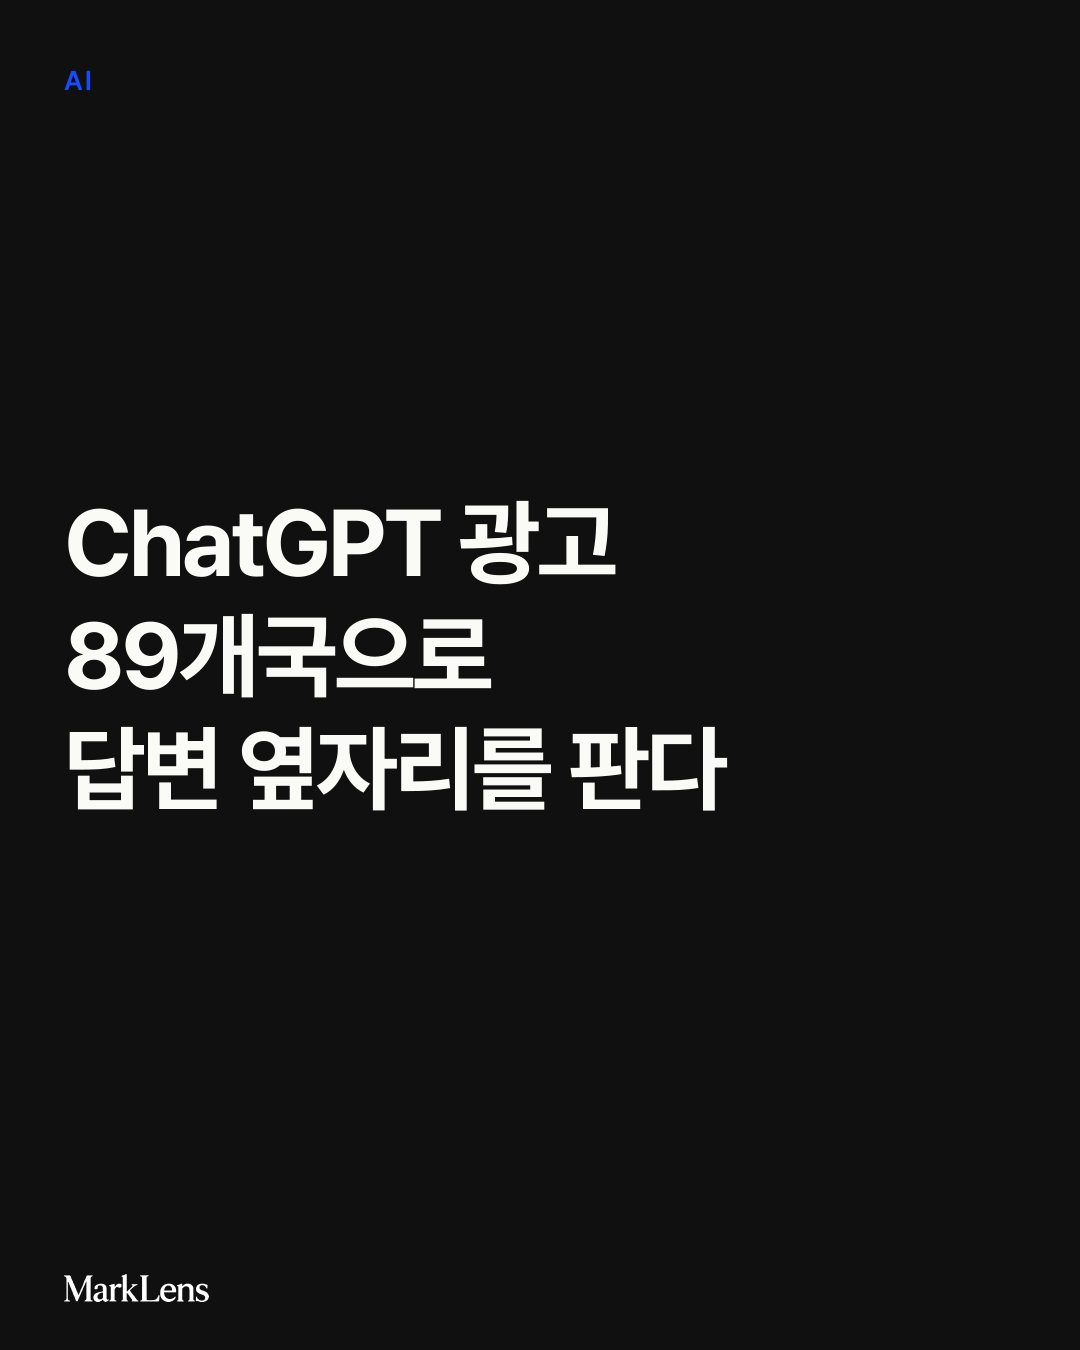
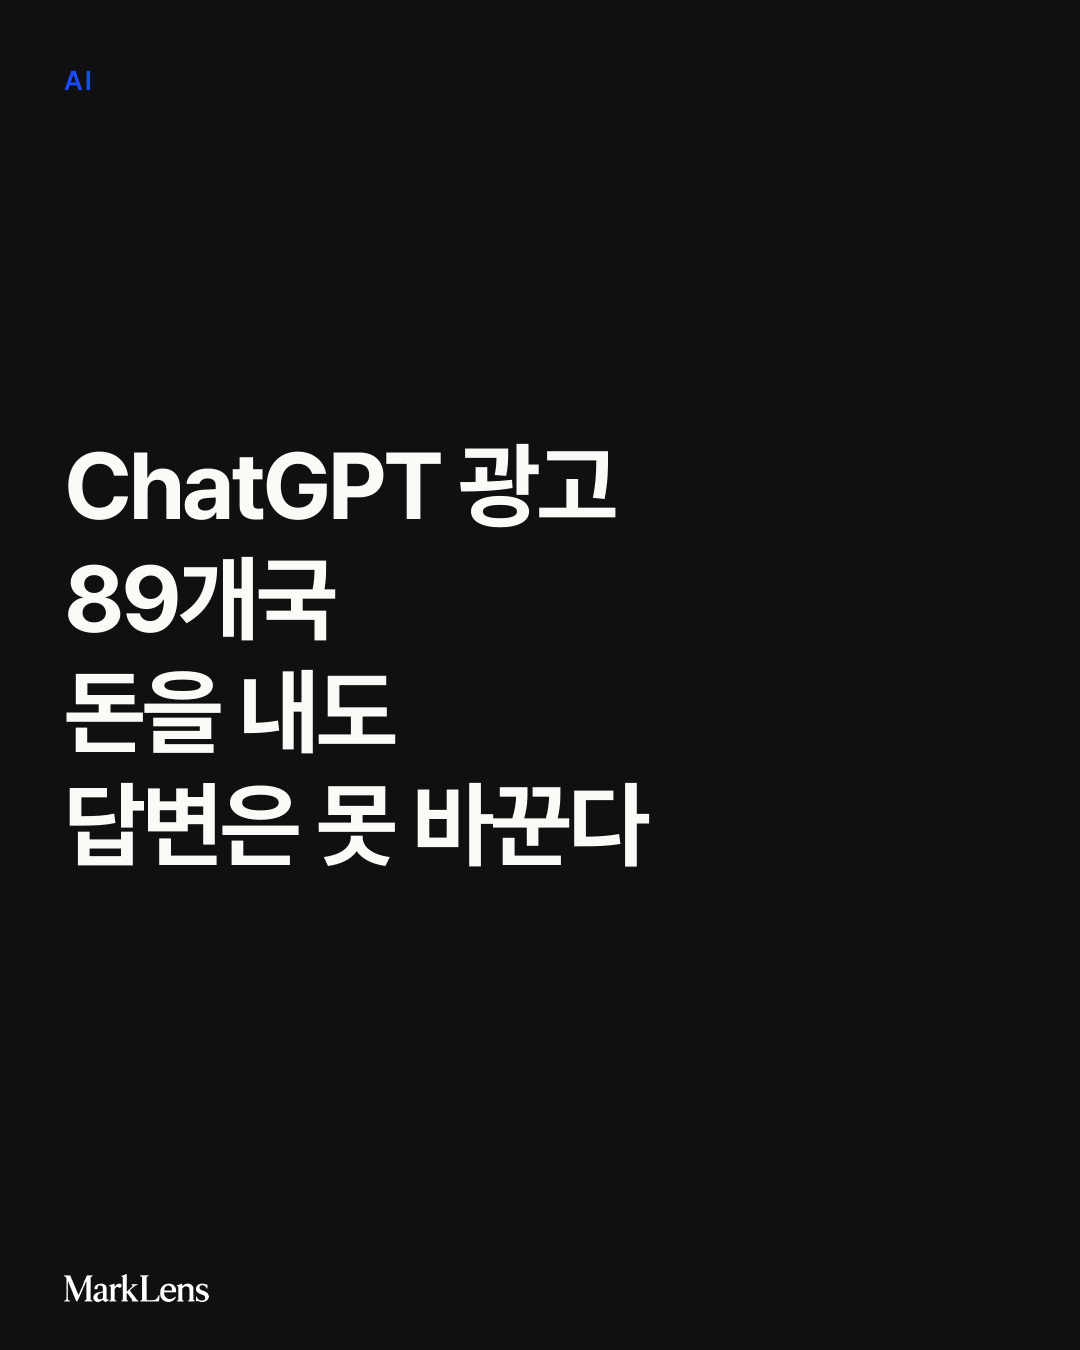
docs(editorial): pre-publication fixes to the first editorial
Title per the owner: "ChatGPT 광고 89개국, 브랜드가 돈을 내도 AI의 답변은
바꿀 수 없다". States OpenAI's 21 Oct expansion (26 more, 89 in total) and
keeps Korea separate (launch announced 11 Aug). Ads are described as
separated from answers, without asserting where they sit. Google AI Mode ads
are a separate service and a test for some users. The learn-before-shifting
budget conclusion is labelled as MarkLens's opinion (article, card 5
"MarkLens의 의견", social copy). Card news re-validated and re-rendered on
Preview.

Changed region(s): [[0.0611, 0.3111, 0.6722, 0.6533]]

diff --git a/docs/editorial/2026-10-26-chatgpt-ads/social.md b/docs/editorial/2026-10-26-chatgpt-ads/social.md
@@ -1,21 +1,21 @@
-# 배포 문안 — ChatGPT 광고 89개국, 답변은 못 사고 옆자리만 산다
+# 배포 문안 — ChatGPT 광고 89개국, 브랜드가 돈을 내도 AI의 답변은 바꿀 수 없다
 
-상태: 초안. 실제 게시·발송은 운영자 승인 후.
-기사 URL(공개 후): https://marklens.site/insights/chatgpt-ads-89-countries-answer-adjacent
+상태: 초안. 실제 게시·발송은 운영자 승인 후(기사 발행이 먼저, SNS·뉴스레터는 별도 승인).
+기사 URL(공개 후): https://marklens.site/insights/chatgpt-ads-89-countries-answers-not-for-sale
 
 ## Instagram (카드뉴스 캡션)
 
-ChatGPT 광고가 89개국으로 넓어졌습니다.
-구글도 AI 모드에서 광고 시험을 시작했고요.
+OpenAI가 10월 21일 ChatGPT 광고를 26개국에 추가해 89개국으로 넓혔습니다.
+(한국은 이와 별개로 8월 11일 출시가 발표됐습니다.)
 
-AI 답변 바로 옆이 새 광고 지면이 됐지만,
-두 회사 모두 광고는 답변 내용을 바꾸지 않는다고 밝혔습니다.
+광고는 AI 답변과 구분돼 표시되고,
+OpenAI는 광고가 답변 내용에 영향을 주지 않는다고 밝혔습니다.
 
-살 수 있는 건 답변 옆자리.
-답변 속 언급은 여전히 돈으로 살 수 없습니다.
+돈으로 살 수 있는 건 광고.
+답변 속에서 언급되는 일은 여전히 돈으로 살 수 없습니다.
 
-경매 방식과 외부 측정이 공개되지 않은 지금은
-예산을 옮기기보다 질문 맥락별 반응을 배울 때라고 봅니다.
+경매 방식과 외부 측정이 공개되지 않은 지금,
+MarkLens는 예산을 옮기기보다 질문 맥락별 반응을 배울 때라고 봅니다.
 
 출처와 전체 분석은 프로필 링크의 MarkLens에서.
 
@@ -23,14 +23,16 @@ AI 답변 바로 옆이 새 광고 지면이 됐지만,
 
 ## Threads
 
-ChatGPT 광고가 89개국으로 넓어졌다(OpenAI, 10/21). 구글도 10/16부터 AI 모드 광고를 시험 중.
+OpenAI가 10/21 ChatGPT 광고를 26개국 추가, 총 89개국으로 넓혔다. 한국은 이와 별개로 8/11에 출시 발표.
 
-정리하면 AI 안의 브랜드 노출은 두 갈래다.
-· 돈으로 사는 답변 옆자리(광고)
-· 돈으로 못 사는 답변 속 언급(신뢰)
+광고는 답변과 구분되고 답변을 바꾸지 않는다는 게 OpenAI 설명이다. 그래서 AI 안의 브랜드 노출은 두 갈래다.
+· 돈으로 사는 광고
+· 돈으로 못 사는 답변 속 언급
 
-경매·빈도·외부 측정이 비공개인 지금은 학습 예산 단계라고 본다. 여러분 팀은 시험해 볼 생각이 있나요?
+구글 AI 모드 광고는 별개 서비스이고 아직 일부 이용자 대상 시험이다.
+
+MarkLens 의견: 경매·빈도·외부 측정이 비공개인 지금은 학습 예산 단계. 여러분 팀은 시험해 볼 생각이 있나요?
 
 ## 뉴스레터 소개 문안
 
-이번 주 MarkLens가 가장 먼저 짚은 변화는 AI 답변 옆에 생긴 광고 자리입니다. OpenAI는 ChatGPT 광고를 89개국으로 넓혔고, 구글은 AI 모드에서 개인화 광고를 시험하기 시작했습니다. 두 회사 모두 광고가 답변을 바꾸지 않는다고 못 박은 만큼, 브랜드가 살 수 있는 것과 살 수 없는 것이 분명해졌습니다. 지금 예산을 옮겨야 하는지, 무엇부터 시험하면 되는지 정리했습니다.
+OpenAI가 10월 21일 ChatGPT 광고를 26개국에 추가해 89개국으로 넓혔습니다. 광고는 AI 답변과 구분돼 표시되고 답변 내용을 바꾸지 않는다는 원칙도 함께 밝혔습니다. 브랜드가 돈으로 살 수 있는 것과 살 수 없는 것이 분명해진 셈입니다. 이번 주 MarkLens는 사실과 분석 의견을 나눠, 지금 무엇부터 시험하면 좋을지 정리했습니다.
